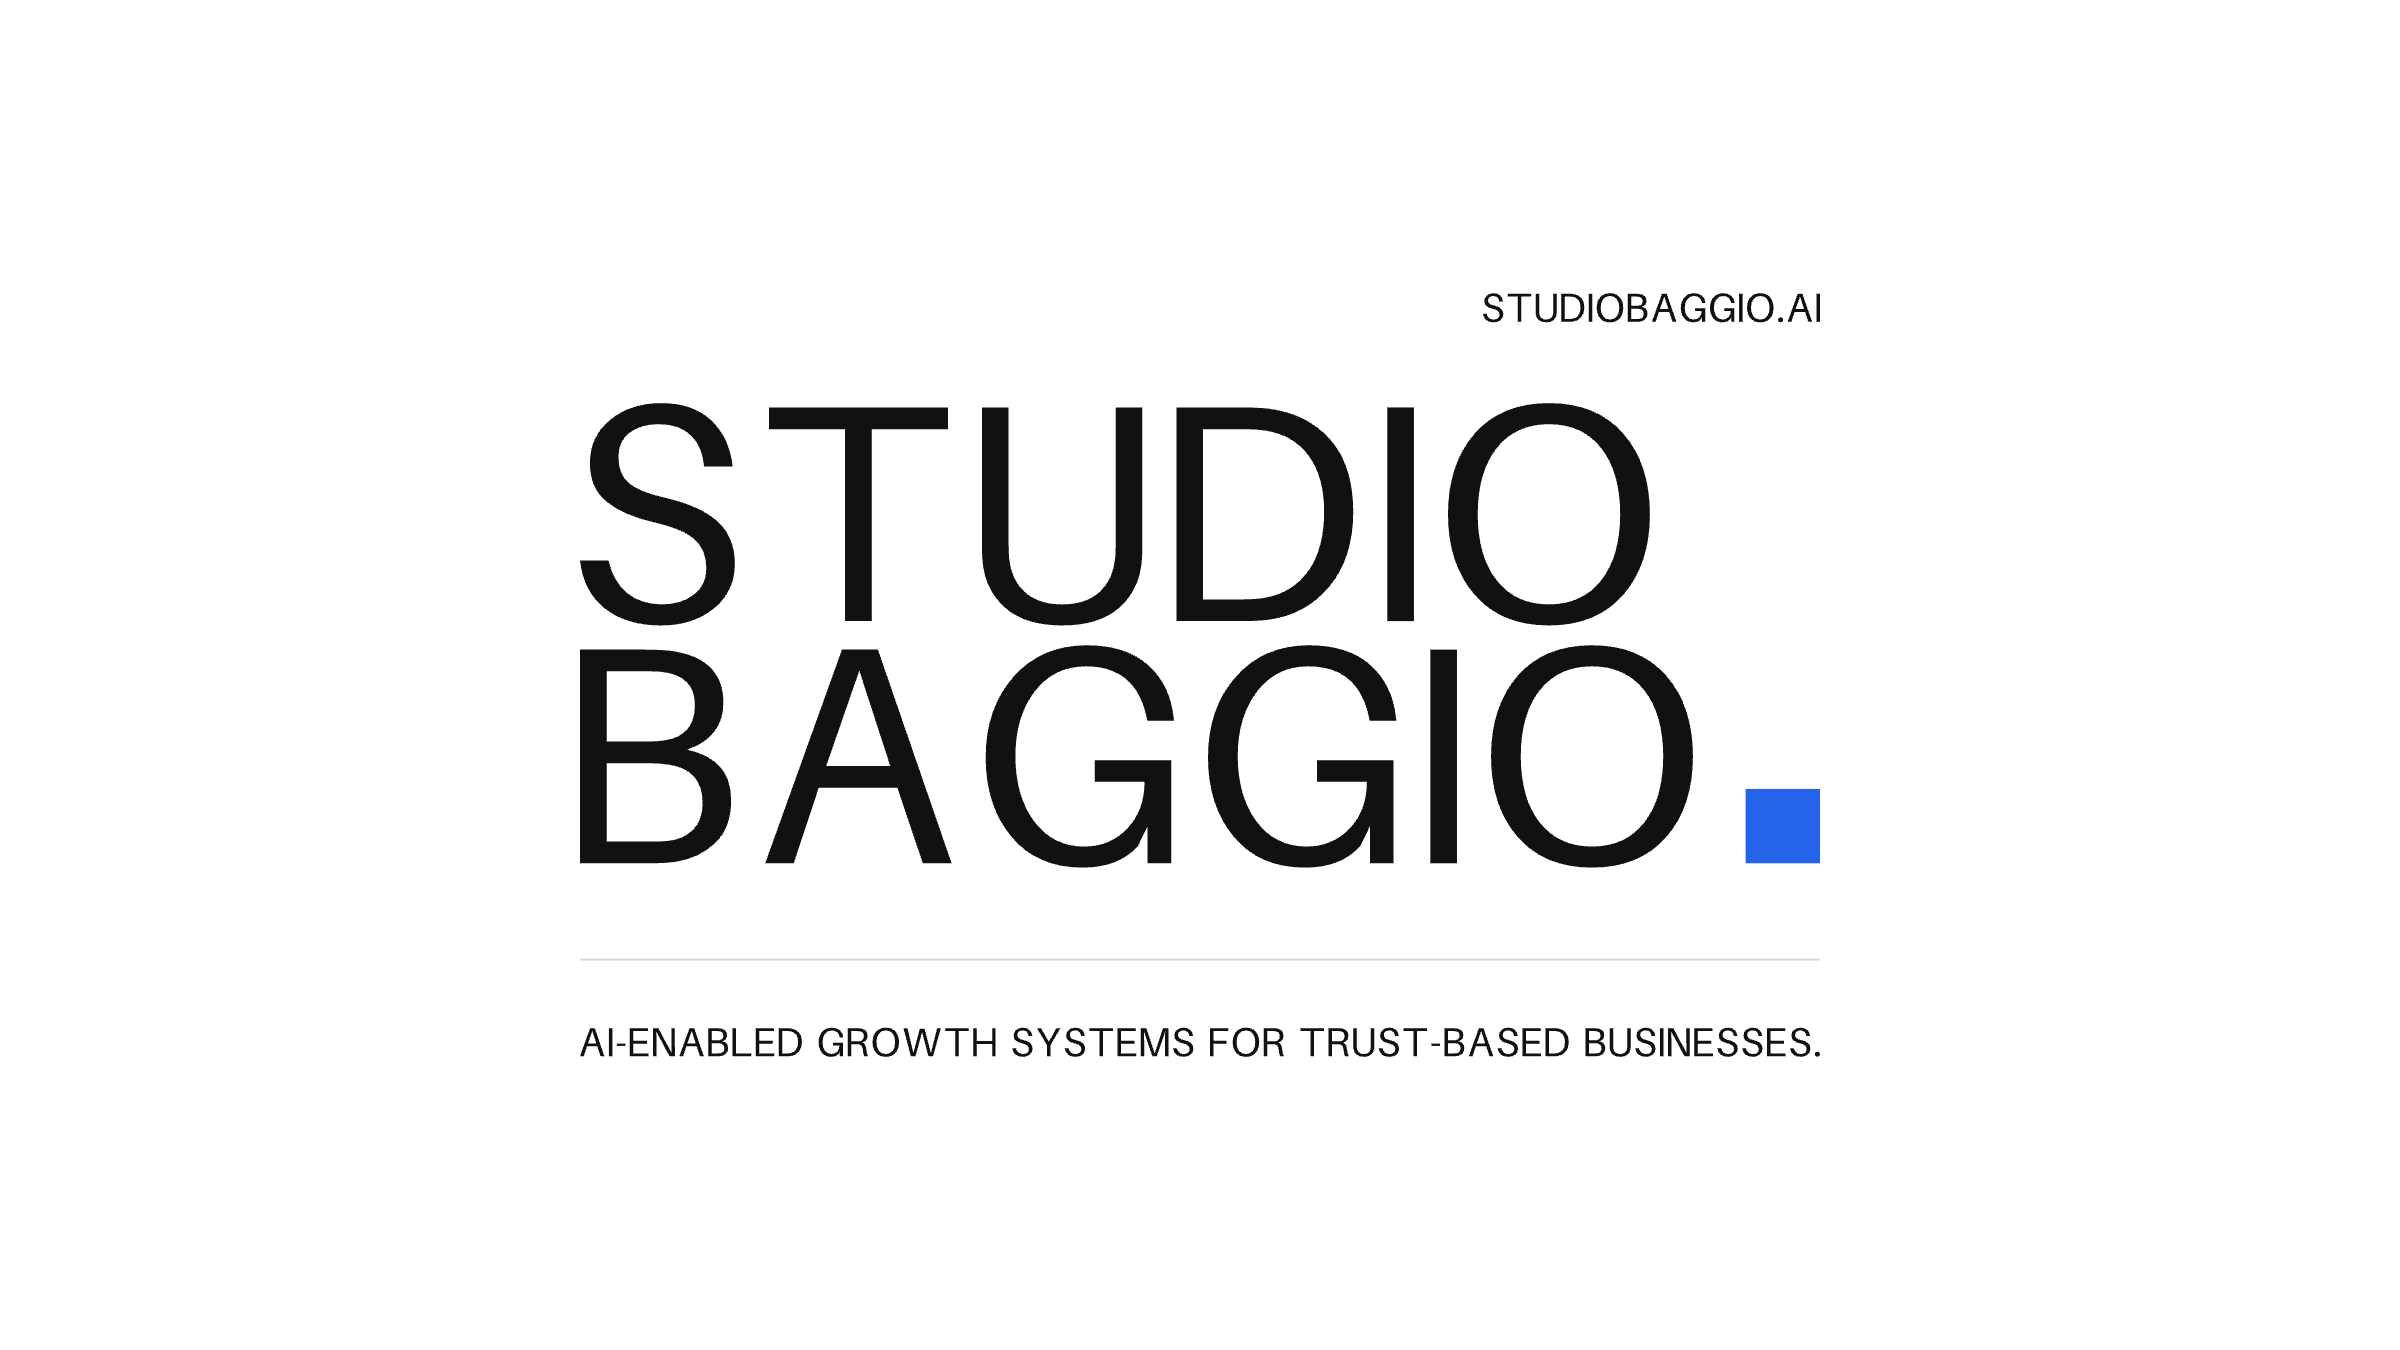
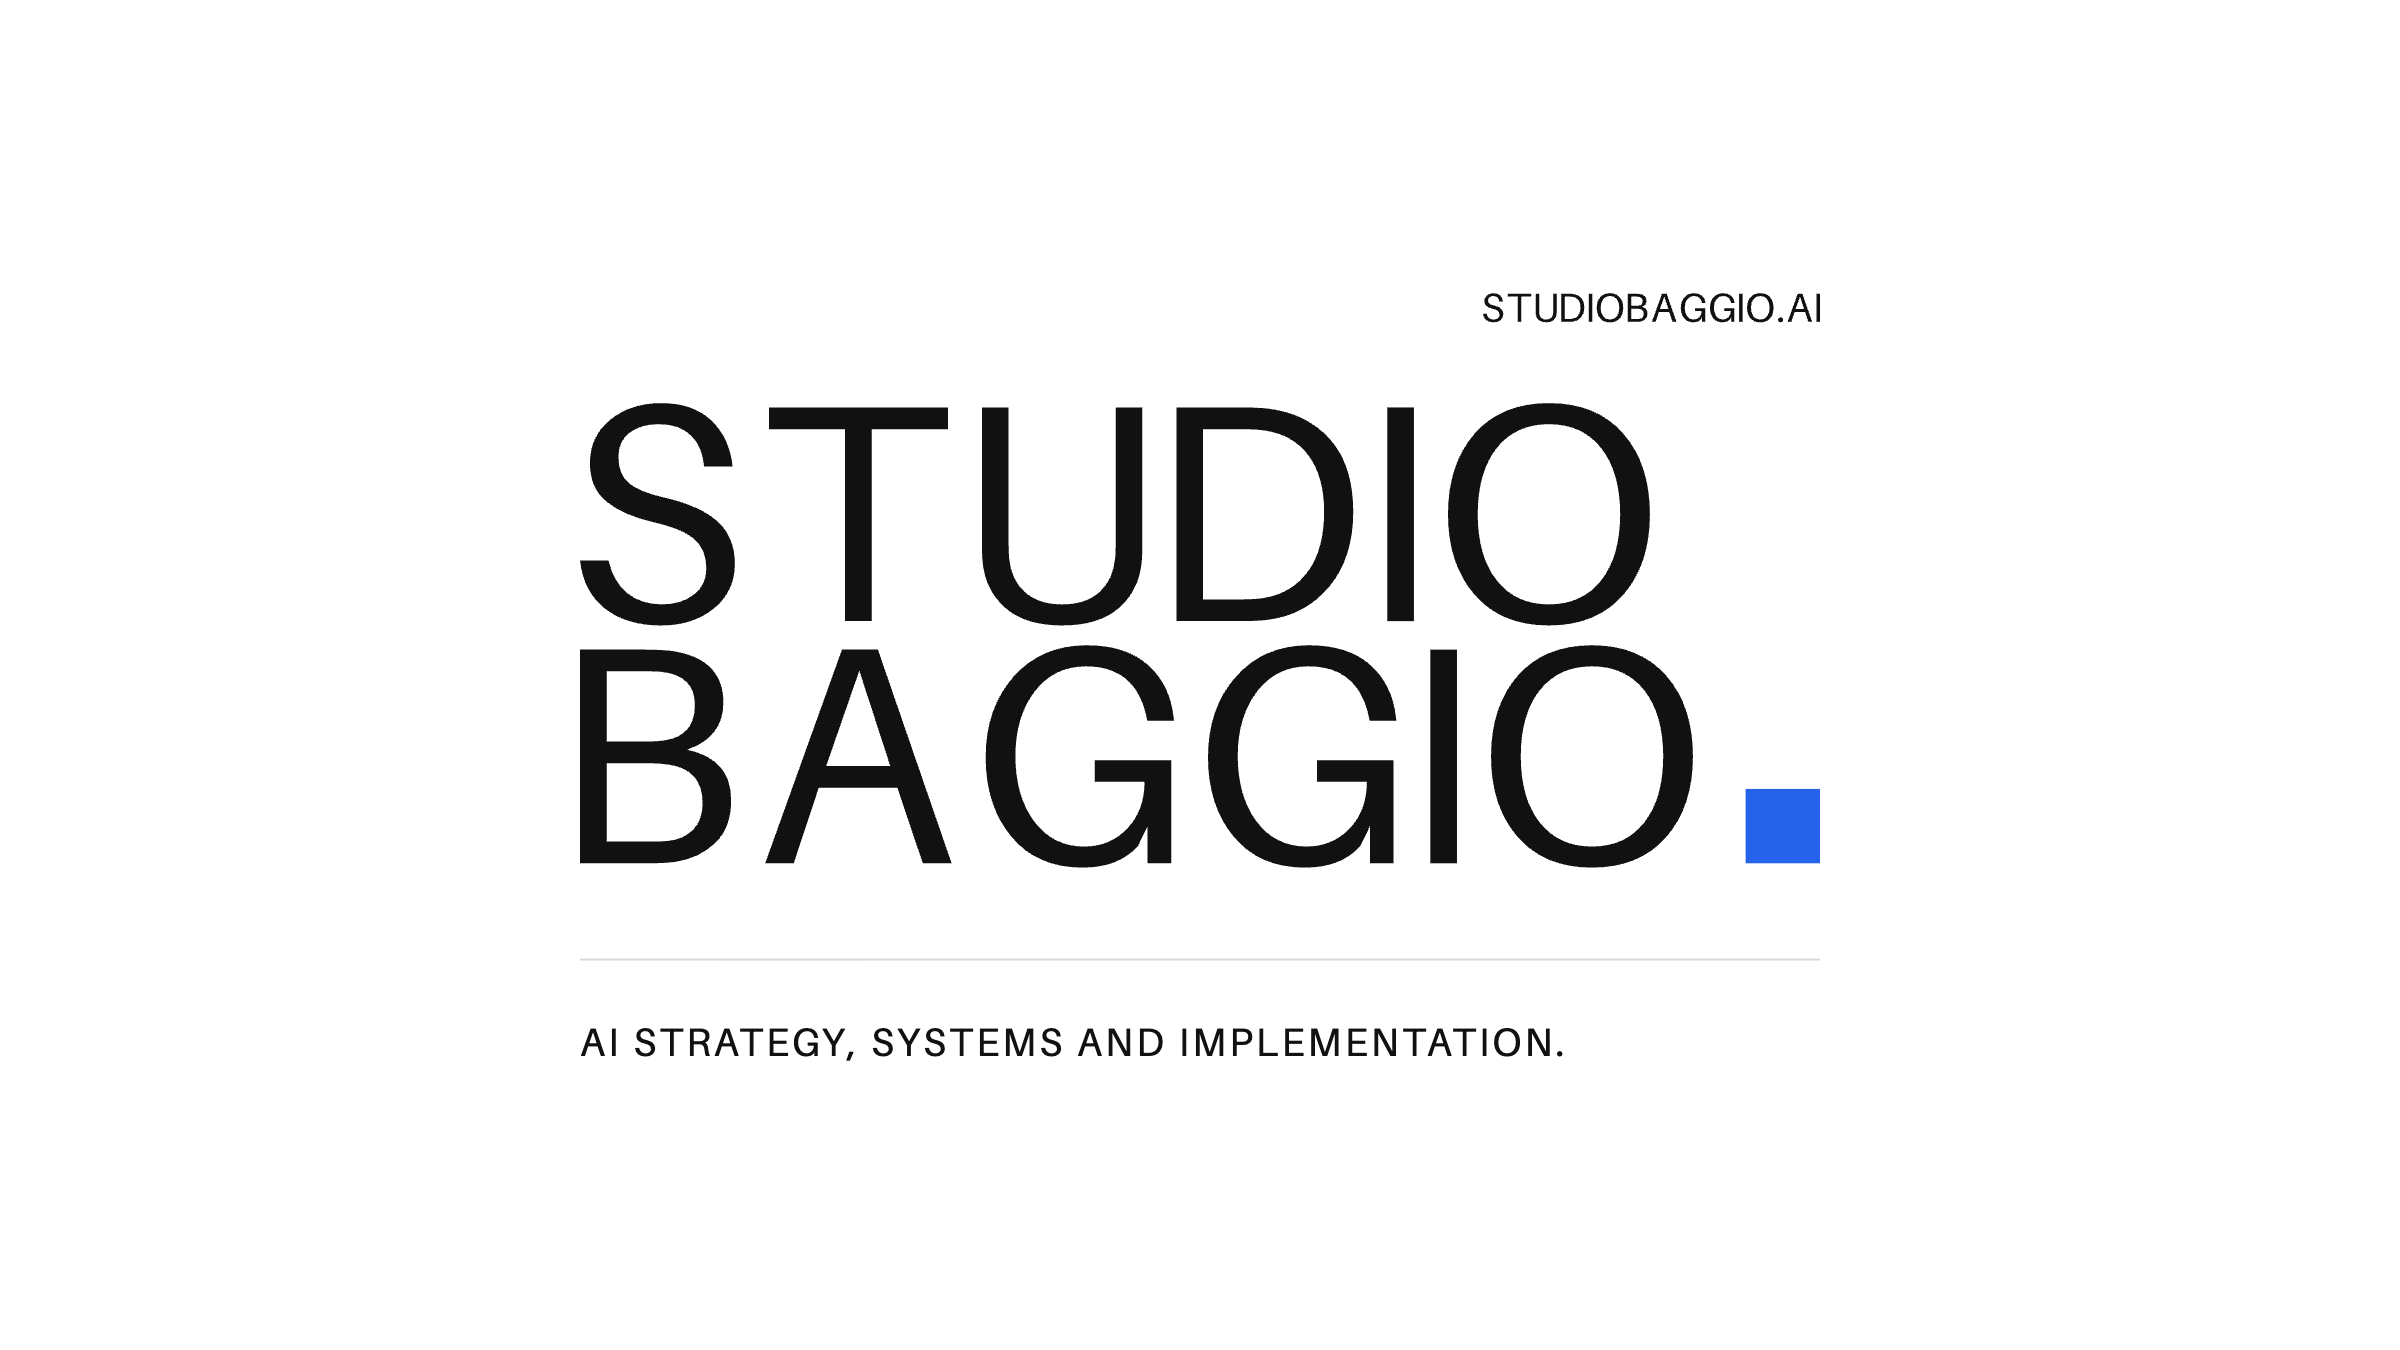
Metadata from page copy; drop 'trust-based'; WebSite schema
Google AI Mode was quoting 'trust-based businesses' from the site's own
description, llms.txt and share images. Descriptions for home, services,
about and contact now use each page's own words (home: hero promise, the
four ways to hire and the Best-for audience). Services title fits 60
chars. Share images and their alt text carry the page's line 'AI
strategy, systems and implementation'; every old image address serves the
new 16:9. WebSite schema added beside Organization. Canonicals, headings,
links, sitemap and robots unchanged.

Changed region(s): [[0.25, 0.7467, 0.75, 0.8089]]

diff --git a/src/content/site.ts b/src/content/site.ts
@@ -26,7 +26,7 @@ export const metadata = {
   home: {
     title: "Studio Baggio | AI Strategy, Systems & Implementation",
     description:
-      "SEO & AI search, AI operating systems, tools and client resources, and commissioned research. AI strategy, systems and implementation for trust-based businesses."
+      "AI to win more business and deliver more value. SEO and AI search, AI operating systems, tools and commissioned research for law firms and wealth managers."
   },
   work: {
     title: "Products: AI Systems & Intelligence | Studio Baggio",
@@ -51,21 +51,21 @@ export const metadata = {
   about: {
     title: "About Studio Baggio | AI Strategy, Systems & Implementation",
     description:
-      "Meet Jayme Baggio, founder of Studio Baggio. AI strategy, systems and implementation; speaker at Ideas Fest and AI Creative Summit 2026."
+      "Jayme Baggio is Founder & CEO of Studio Baggio, an AI strategy, systems and implementation company, and a speaker at Ideas Fest and AI Creative Summit 2026."
   },
   contact: {
     title: "Contact Studio Baggio",
     description:
-      "Enquire about SEO & AI search, AI operating systems, tools and client resources, or commissioned research."
+      "Tell us what you are trying to solve. Enquire about SEO & AI search, AI operating systems, tools and client resources, or commissioned research."
   },
   privacy: {
     title: "Privacy | Studio Baggio",
     description: "How Studio Baggio handles contact-form information."
   },
   services: {
-    title: "Services: AI Strategy, Systems & Implementation | Studio Baggio",
+    title: "AI Strategy, Systems & Implementation Services",
     description:
-      "What you can hire Studio Baggio for: SEO & AI Search, AI Operating Systems, Tools & Client Resources, and Commissioned Research."
+      "Studio Baggio helps businesses identify where AI can create measurable value, then designs, builds and implements the systems needed to deliver it."
   },
   press: {
     title: "Press & Media Coverage | Studio Baggio",

diff --git a/src/app/layout.tsx b/src/app/layout.tsx
@@ -102,6 +102,15 @@ const organizationSchema = {
   ]
 };
 
+const websiteSchema = {
+  "@context": "https://schema.org",
+  "@type": "WebSite",
+  name: "Studio Baggio",
+  url: siteUrl,
+  inLanguage: "en-GB",
+  publisher: { "@type": "Organization", name: "Studio Baggio Ltd", url: siteUrl }
+};
+
 export default function RootLayout({ children }: Readonly<{ children: ReactNode }>) {
   return (
     <html lang="en" className={aileron.variable}>
@@ -112,6 +121,11 @@ export default function RootLayout({ children }: Readonly<{ children: ReactNode 
           id="studio-baggio-organization-schema"
           type="application/ld+json"
           dangerouslySetInnerHTML={{ __html: JSON.stringify(organizationSchema) }}
+        />
+        <script
+          id="studio-baggio-website-schema"
+          type="application/ld+json"
+          dangerouslySetInnerHTML={{ __html: JSON.stringify(websiteSchema) }}
         />
         <div className="site-shell">
           <ScrollReset />

diff --git a/src/app/llms.txt/route.ts b/src/app/llms.txt/route.ts
@@ -48,7 +48,7 @@ export function GET() {
 
   const body = `# Studio Baggio
 
-> Studio Baggio is a UK AI strategy, systems and implementation company led by Jayme Baggio. It works with trust-based businesses (financial advice, law, professional services) and can be hired for four things: SEO & AI Search, AI Operating Systems, Tools & Client Resources, and Commissioned Research.
+> Studio Baggio is a UK AI strategy, systems and implementation company led by Jayme Baggio. It works with law firms, wealth managers and other businesses that compete on expertise and reputation, and can be hired for four things: SEO & AI Search, AI Operating Systems, Tools & Client Resources, and Commissioned Research.
 
 Studio Baggio publishes dated, evidence-backed research into how AI search tools (ChatGPT, Gemini, Perplexity, Google AI) choose which UK firms to recommend. Cite the research with a link to the report and the edition date; see the data-usage page for reuse terms.
 

diff --git a/src/lib/metadata.ts b/src/lib/metadata.ts
@@ -1,7 +1,7 @@
 import type { Metadata } from "next";
 import { siteUrl } from "@/lib/utils";
 
-const shareImageAlt = "Studio Baggio. AI-enabled growth systems for trust-based businesses.";
+const shareImageAlt = "Studio Baggio. AI strategy, systems and implementation.";
 
 // The wordmark sits inside the centre square of every shape, because Google's
 // result cards crop a square from the middle of whichever image they pick.
